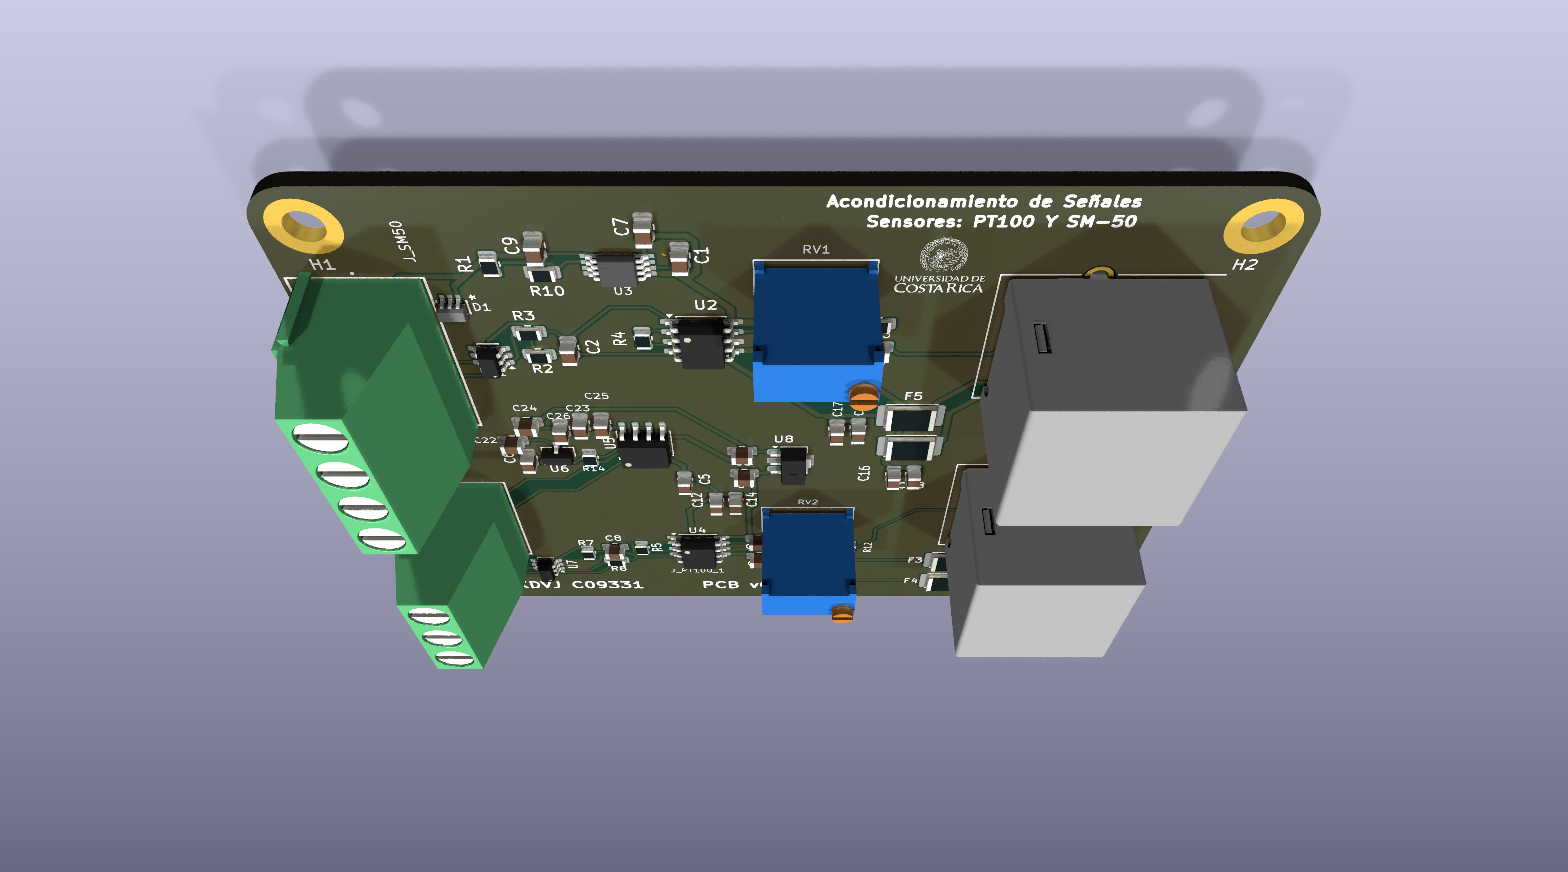
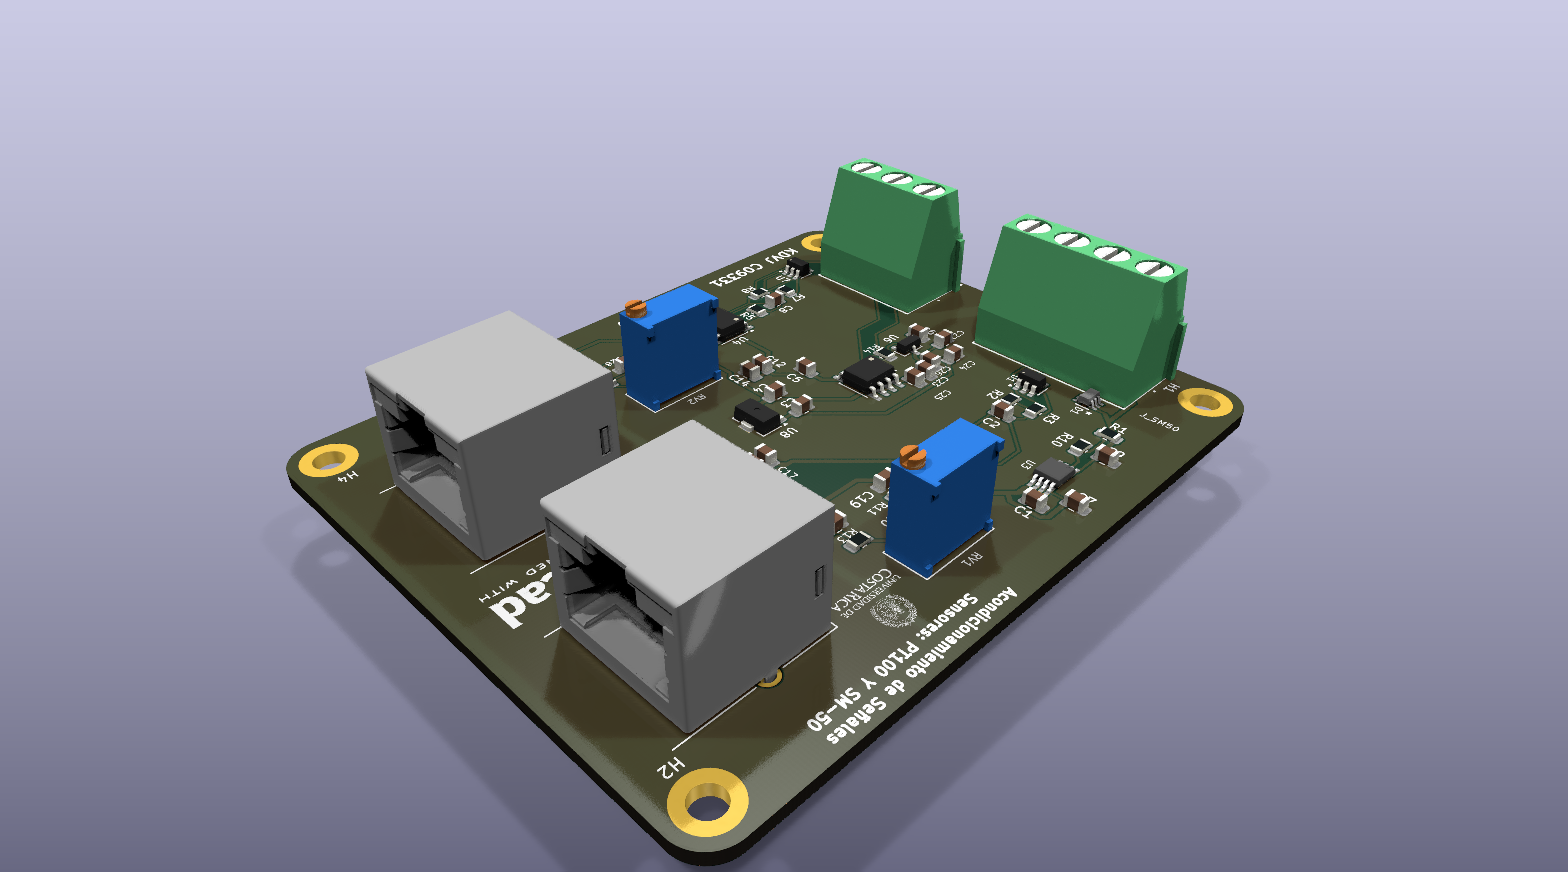
Fix PCB 3D image orientation

diff --git a/README.md b/README.md
@@ -30,12 +30,6 @@ Diseñar e implementar una tarjeta de circuito impreso que permita acondicionar 
 
 ![PCB 3D](docs/figuras/kicad_pcb_3d.png)
 
-### PCB 3D - vista frontal
-
-<p align="center">
-  <img src="docs/figuras/kicad_pcb_3d_frontal.png" alt="PCB 3D vista frontal" width="520">
-</p>
-
 ## Diagrama de bloques
 
 ![Diagrama de bloques](docs/figuras/diagrama_bloques_valores_actuales.png)